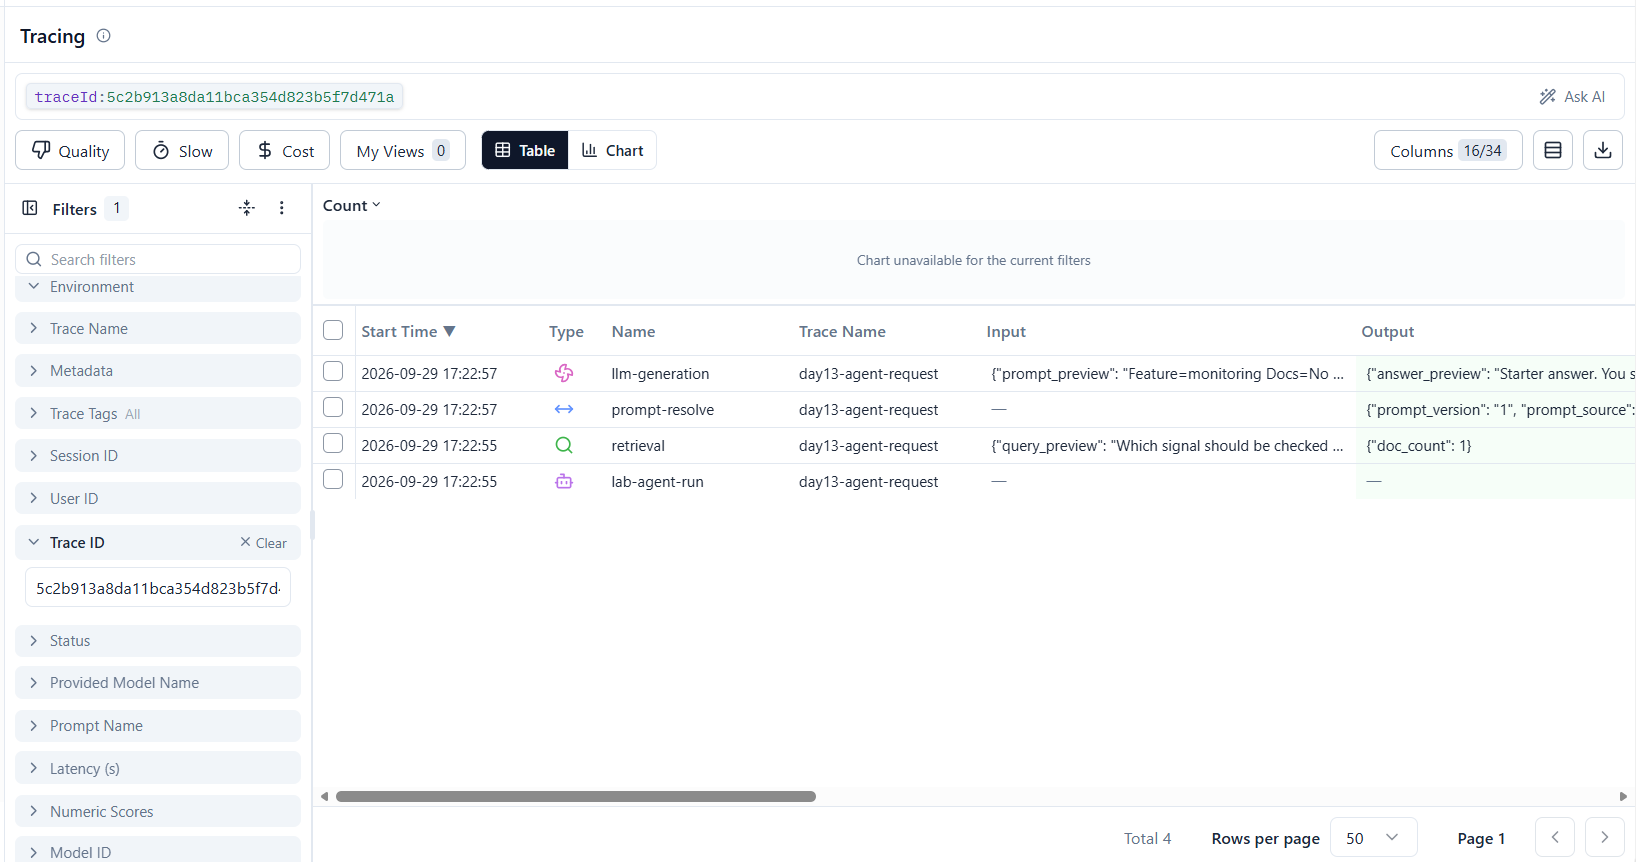
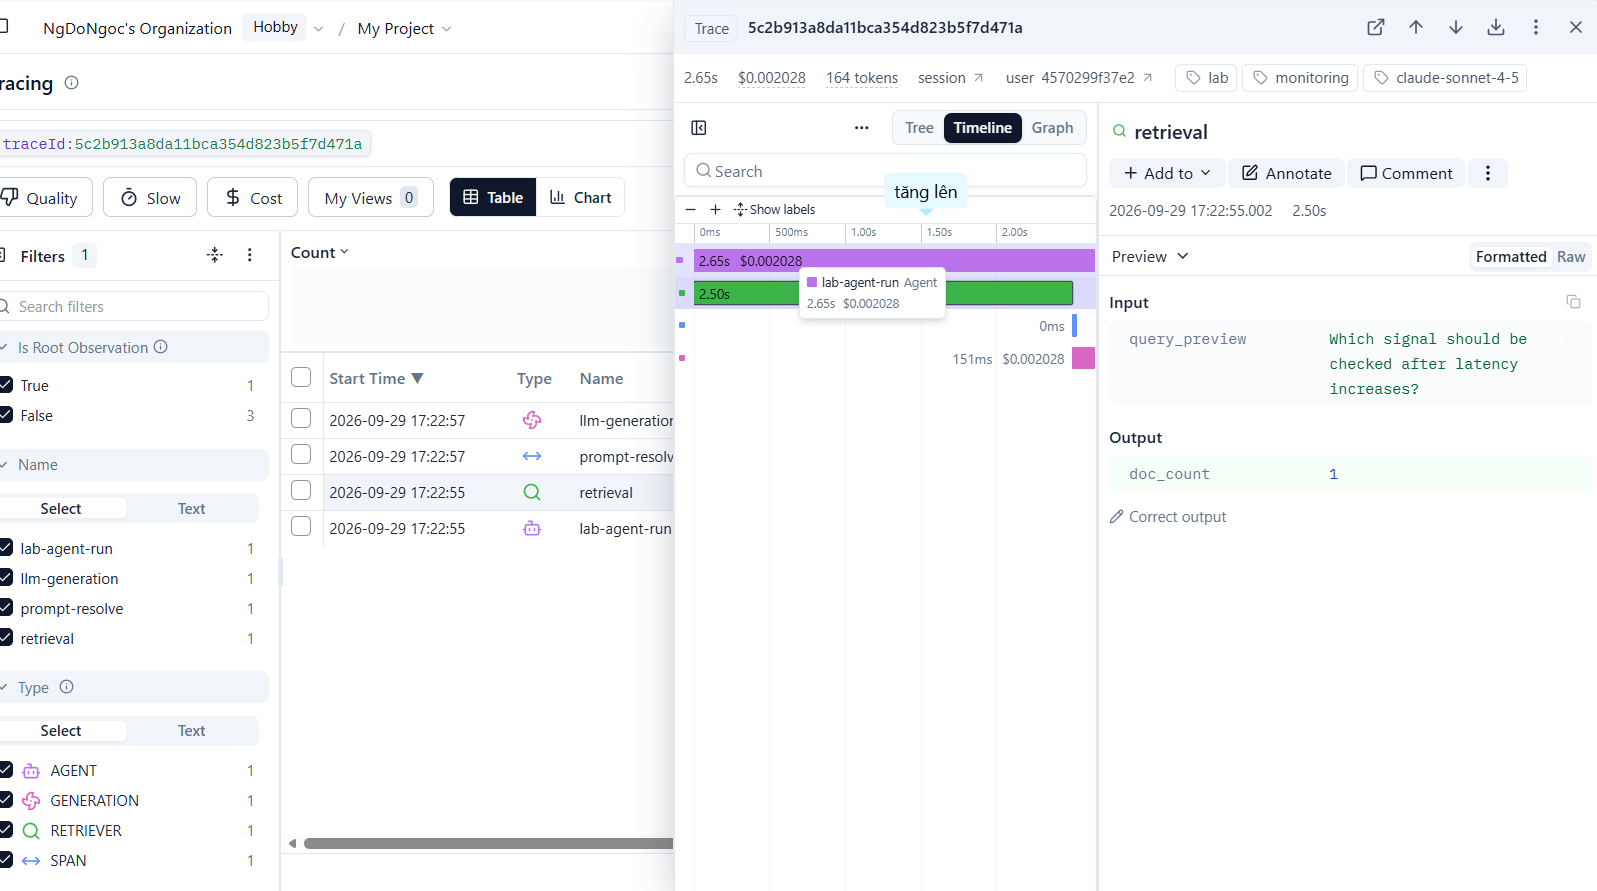
docs: add incident trace timeline evidence and repository URL

diff --git a/submission/REPORT.md b/submission/REPORT.md
@@ -7,7 +7,7 @@
 - **Họ và tên:** Ngọ Doãn Ngọc
 - **MSSV:** 2A202602635
 - **Lớp:** K4-L3A
-- **Repository URL:** 
+- **Repository URL:** https://github.com/nngocnd/K4-L3-DAY13-NgoDoanNgoc-2A202602635-Monitoring-LLMOps
 - **Commit SHA cuối:** 
 - **Challenge ID:** `day13-k4-l3a-monitoring-llmops-v1`
 - **Tên project Langfuse cá nhân:** `day13-k4-l3a-2A202602635`
